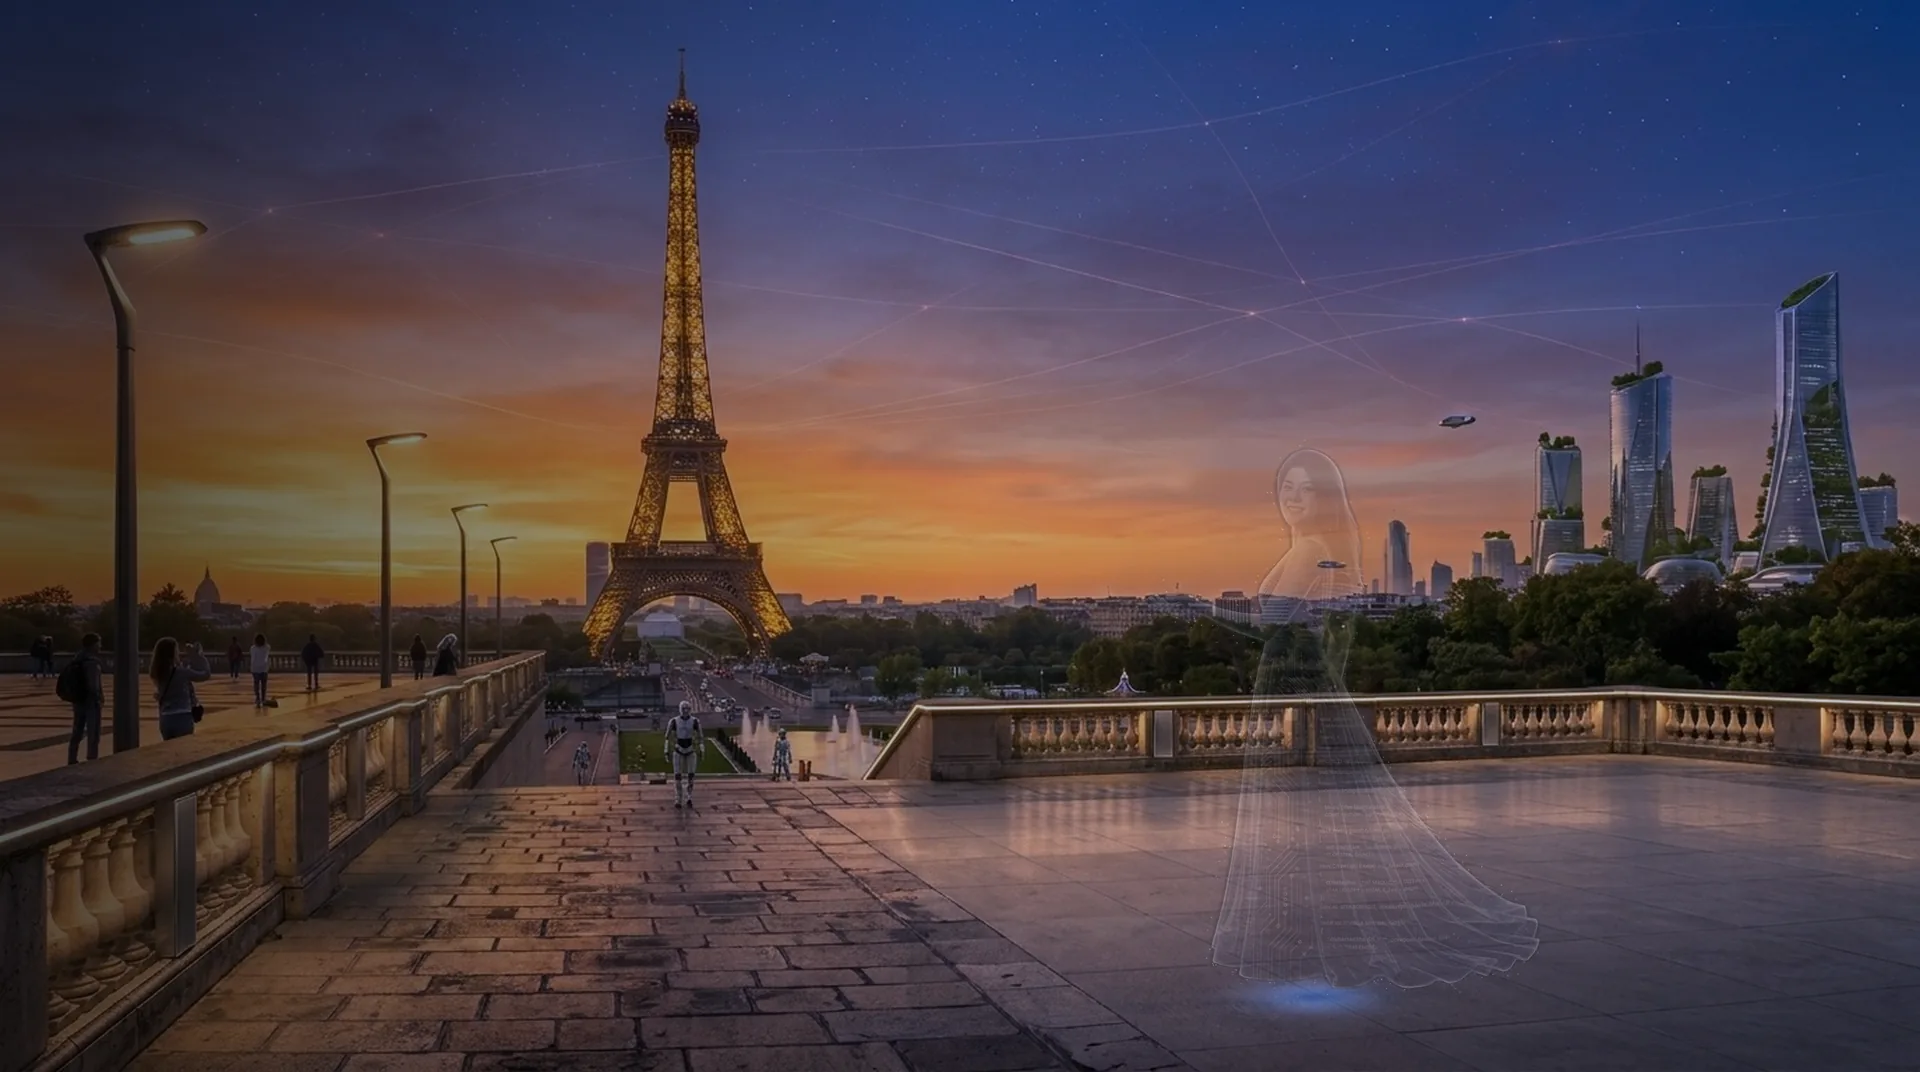
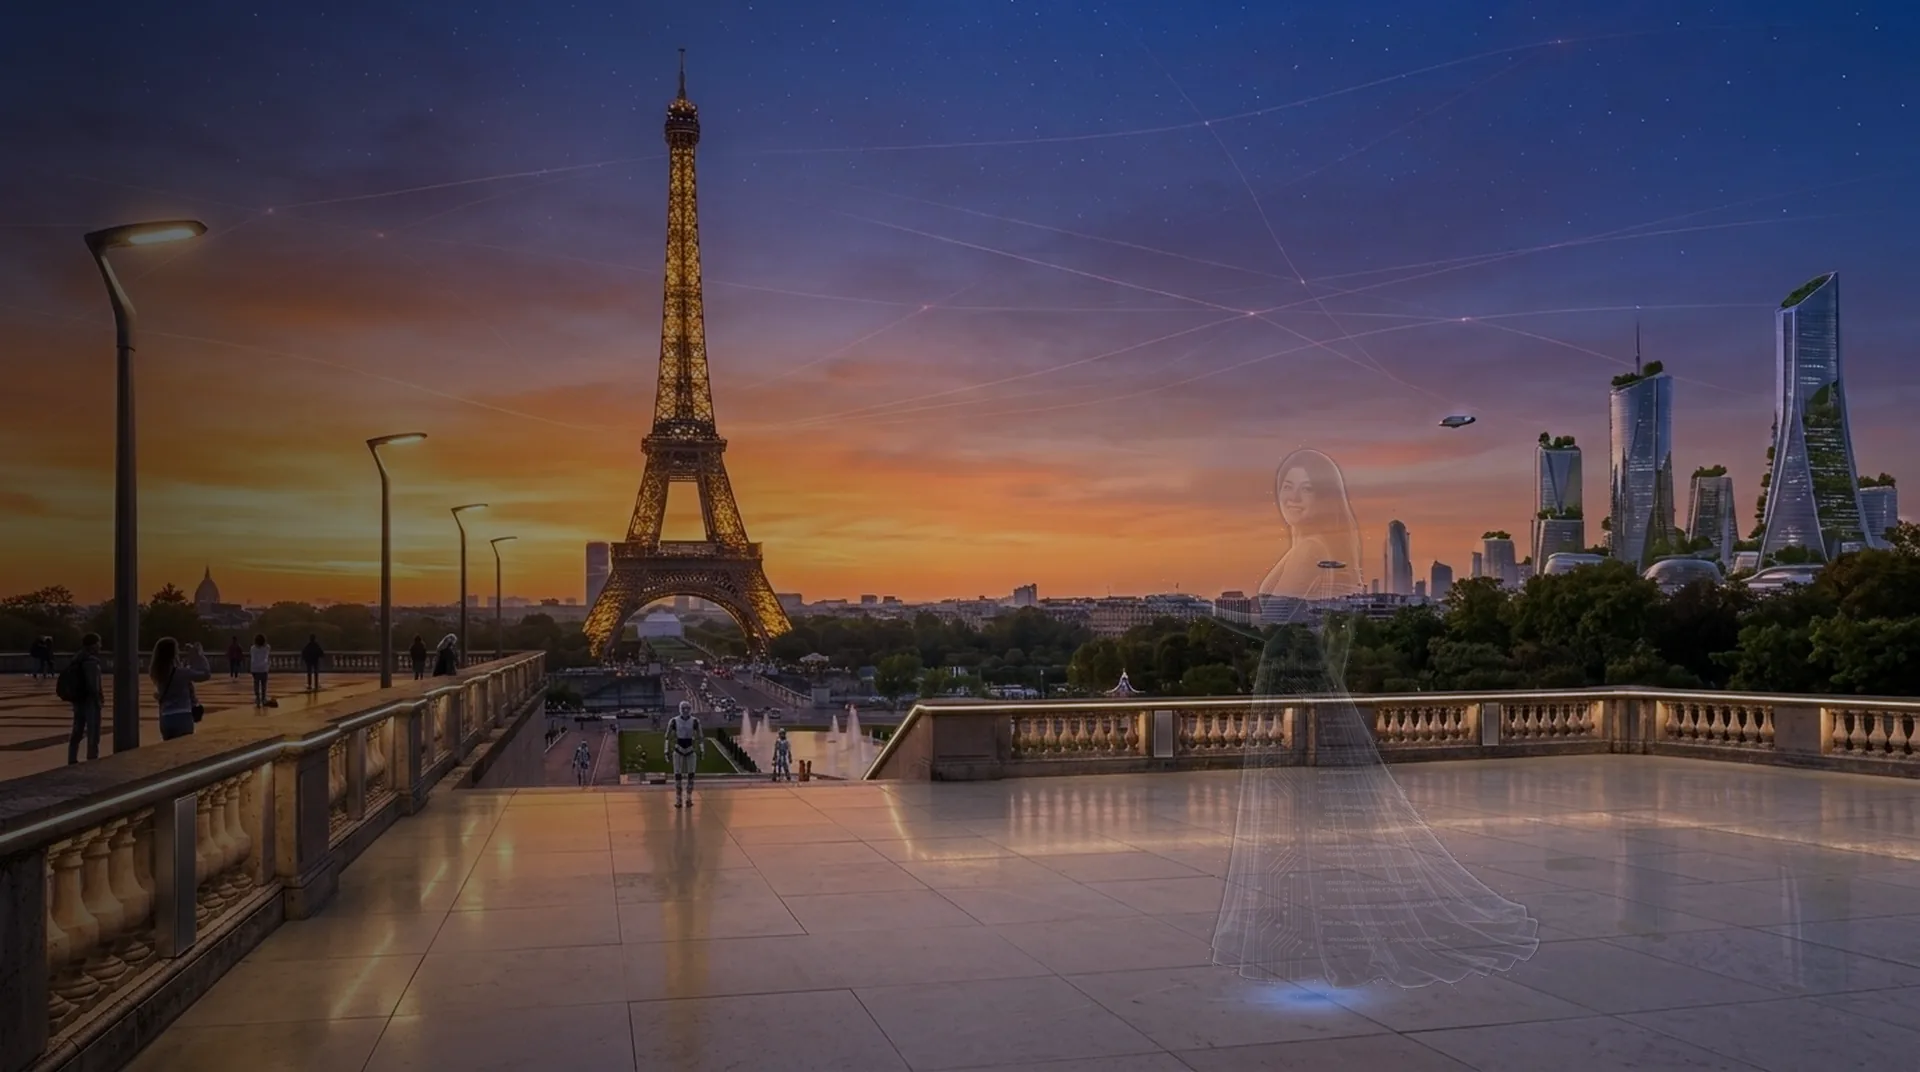
Paris: new polished pavement, removed flying car above figure (approved)
Claude-Session: https://claude.ai/code/session_01H85aKn7DXJzN6wNs1DxAxe

Changed region(s): [[0.125, 0.708, 1.0, 1.0], [0.5312, 0.7388, 0.625, 0.7696]]

diff --git a/index.html b/index.html
@@ -493,15 +493,15 @@ html.deck,html.deck body{max-width:100%;overflow-x:hidden}
   <a class="cue" href="#s3" aria-label="Scroll down"><span>Scroll</span><i></i></a>
 </section>
 
-<section class="scene" id="s3" data-fx="trails" data-note="2" style="--figmask:url(img/s2v2_fig.webp?v=2);--fx:70%;--g:1.3">
-  <img class="layer bg" src="img/s2v2_bg.webp?v=2" alt="Paris of the future at sunset, the Eiffel Tower under a glowing network of lines" loading="lazy">
+<section class="scene" id="s3" data-fx="trails" data-note="2" style="--figmask:url(img/s2v2_fig.webp?v=3);--fx:70%;--g:1.3">
+  <img class="layer bg" src="img/s2v2_bg.webp?v=3" alt="Paris of the future at sunset, the Eiffel Tower under a glowing network of lines" loading="lazy">
   <div class="figwrap"><div class="lotus" data-ix="0.611" data-iy="0.543" style="--b:54px" aria-hidden="true"><div class="lt-float"><svg viewBox="-50 -62 100 72"><defs>
 <linearGradient id="ltO" x1="0" y1="1" x2="0" y2="0"><stop offset="0" stop-color="#fff3d6" stop-opacity=".95"/><stop offset=".5" stop-color="#9fd6ff" stop-opacity=".55"/><stop offset="1" stop-color="#c9b4ff" stop-opacity=".25"/></linearGradient>
 <linearGradient id="ltI" x1="0" y1="1" x2="0" y2="0"><stop offset="0" stop-color="#fff8e8"/><stop offset=".6" stop-color="#f4d38f" stop-opacity=".8"/><stop offset="1" stop-color="#ffd7ef" stop-opacity=".35"/></linearGradient>
 <radialGradient id="ltC"><stop offset="0" stop-color="#fffdf5"/><stop offset=".4" stop-color="#ffe6a8" stop-opacity=".9"/><stop offset="1" stop-color="#f4d38f" stop-opacity="0"/></radialGradient></defs>
 <ellipse cx="0" cy="2" rx="26" ry="4" fill="#9fd6ff" opacity=".25"/>
 <g class="lt-o"><path class="po" data-k="-3.00" d="M0 0 C-13 -16.099999999999998 -9.1 -39.1 0 -46 C9.1 -39.1 13 -16.099999999999998 0 0Z" fill="url(#ltO)"/><path class="po" data-k="-2.00" d="M0 0 C-13 -16.099999999999998 -9.1 -39.1 0 -46 C9.1 -39.1 13 -16.099999999999998 0 0Z" fill="url(#ltO)"/><path class="po" data-k="-1.00" d="M0 0 C-13 -16.099999999999998 -9.1 -39.1 0 -46 C9.1 -39.1 13 -16.099999999999998 0 0Z" fill="url(#ltO)"/><path class="po" data-k="0.00" d="M0 0 C-13 -16.099999999999998 -9.1 -39.1 0 -46 C9.1 -39.1 13 -16.099999999999998 0 0Z" fill="url(#ltO)"/><path class="po" data-k="1.00" d="M0 0 C-13 -16.099999999999998 -9.1 -39.1 0 -46 C9.1 -39.1 13 -16.099999999999998 0 0Z" fill="url(#ltO)"/><path class="po" data-k="2.00" d="M0 0 C-13 -16.099999999999998 -9.1 -39.1 0 -46 C9.1 -39.1 13 -16.099999999999998 0 0Z" fill="url(#ltO)"/><path class="po" data-k="3.00" d="M0 0 C-13 -16.099999999999998 -9.1 -39.1 0 -46 C9.1 -39.1 13 -16.099999999999998 0 0Z" fill="url(#ltO)"/></g><g class="lt-i"><path class="pi" data-k="-2.00" d="M0 0 C-10 -11.899999999999999 -7.0 -28.9 0 -34 C7.0 -28.9 10 -11.899999999999999 0 0Z" fill="url(#ltI)"/><path class="pi" data-k="-1.00" d="M0 0 C-10 -11.899999999999999 -7.0 -28.9 0 -34 C7.0 -28.9 10 -11.899999999999999 0 0Z" fill="url(#ltI)"/><path class="pi" data-k="0.00" d="M0 0 C-10 -11.899999999999999 -7.0 -28.9 0 -34 C7.0 -28.9 10 -11.899999999999999 0 0Z" fill="url(#ltI)"/><path class="pi" data-k="1.00" d="M0 0 C-10 -11.899999999999999 -7.0 -28.9 0 -34 C7.0 -28.9 10 -11.899999999999999 0 0Z" fill="url(#ltI)"/><path class="pi" data-k="2.00" d="M0 0 C-10 -11.899999999999999 -7.0 -28.9 0 -34 C7.0 -28.9 10 -11.899999999999999 0 0Z" fill="url(#ltI)"/></g>
-<circle class="lt-core" cx="0" cy="-14" r="12" fill="url(#ltC)"/></svg></div></div><img class="layer fig" src="img/s2v2_fig.webp?v=2" alt="A digital woman in a dress of light gestures towards the city" loading="lazy"></div>
+<circle class="lt-core" cx="0" cy="-14" r="12" fill="url(#ltC)"/></svg></div></div><img class="layer fig" src="img/s2v2_fig.webp?v=3" alt="A digital woman in a dress of light gestures towards the city" loading="lazy"></div>
   <div class="shade"></div>
   <div class="year">Paris<b>2226</b></div>
   <div class="copy">
